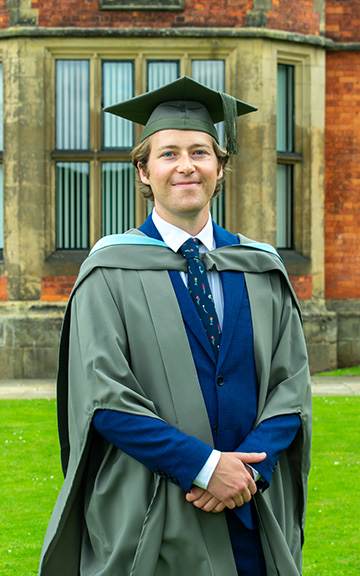
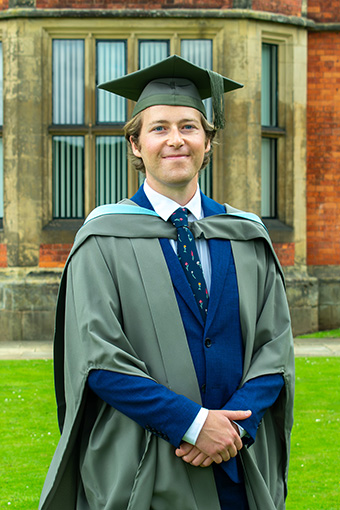
Made mobile look better, though still room to improve

diff --git a/src/ui/pages/Home/Home.scss b/src/ui/pages/Home/Home.scss
@@ -1,19 +1,14 @@
 #home {
   padding: 2em;
-  h2, h3, h4 {
+  h2,
+  h3,
+  h4 {
     margin: 0;
     padding: 0;
   }
 }
 
-.main-content {
-  height: 100%;
-  display: flex;
-  flex-direction: column;
-  justify-content: center;
-}
 #home-main-content {
-  padding: 1em 2em;
   height: 100%;
   display: flex;
   justify-content: space-between;
@@ -21,15 +16,15 @@
   > div {
     padding: 1em;
     &.left-side {
-      margin: 2em 0;
+      max-width: 30%;
+      height: min-content;
       clip-path: polygon(0 0, calc(100% - 6em) 0, 100% 6em, 100% 100%, 6em 100%, 0 calc(100% - 6em));
       transition: all 0.3s ease-in-out;
       img {
-        height: 100%;
+        width: 100%;
         vertical-align: top;
 
         background-image: url('me-low.jpg');
-
       }
 
       &:hover {
@@ -44,9 +39,14 @@
       font-weight: 700;
 
       h1 {
+        text-align: right;
         display: inline-block;
         font-size: 4.5em;
-        margin: 0 0 0 0.45em;
+        width: 100%;
+        > span {
+          margin: 0 0 0 0.45em;
+        }
+        margin: 0;
       }
 
       p {
@@ -83,14 +83,51 @@
   }
 }
 
+[data-device='tiny'],
+[data-device='small'] {
+  #home-main-content {
+    justify-content: end;
+    > div {
+      &.left-side {
+        display: none;
+      }
+    }
+  }
+}
+
+[data-device='tiny'] {
+  #home-main-content {
+    > div {
+      &.right-side {
+        h1 {
+          font-size: 3em;
+        }
+
+        p {
+          font-size: 1.5em;
+        }
+
+        #development-carousel {
+          height: 1.5em;
+        }
+      }
+    }
+  }
+}
+
 @keyframes development-carousel {
-  0%, 16%, 99.001%, 100% {
+  0%,
+  16%,
+  99.001%,
+  100% {
     transform: translateY(0);
   }
-  32%, 50% {
+  32%,
+  50% {
     transform: translateY(-100%);
   }
-  66%, 83% {
+  66%,
+  83% {
     transform: translateY(-200%);
   }
   99% {

diff --git a/src/ui/pages/Now/Now.tsx b/src/ui/pages/Now/Now.tsx
@@ -1,5 +1,6 @@
 import './Now.scss'
 import grad from './grad.jpg'
+import '@fontsource/noto-sans-mono/700.css'
 
 export const Now = () => (
   <div id='now'>
@@ -14,21 +15,26 @@ export const NowMainContent = () => {
       <div className='left-side'>
         <h1><a href='https://nownownow.com'>/now</a></h1>
 
-        <h3><i>Updated Sunday 6th August 2023</i></h3>
+        <h2><i>Updated 6th August 2023</i></h2>
 
+        <h4>/life</h4>
         <ul>
-          <li>I graduated from the University of York.</li>
-          <li>I am applying for many jobs.</li>
-          <li>Though I have also applied for a master's...</li>
-          <li>Web development has destroyed my sleep schedule.</li>
-          <br />
-          <li>I'm going to the BBC Proms later this month!</li>
-          <li>
-            I finally opened Overwatch 2 for the first time ever and I miss playing with my university team &lt;3
-          </li>
-          <br />
-          <li>I recently read Dracula, and I'm about 10% through The Time Traveller's Guide to Medieval England. Dracula is a must-read if you haven't read it!</li>
+          <li><i>I graduated from the University of York</i></li>
+          <li><i>I am applying for many jobs</i></li>
+          <li><i>Though I have also applied for a master's...</i></li>
+        </ul>
 
+        <h4>/misc</h4>
+        <ul>
+          <li><i>I've been getting back into Overwatch</i></li>
+          <li><i>I'm going to the BBC Proms soon!</i></li>
+        </ul>
+
+        <h4>/books</h4>
+        <ul>
+          <li><i>The Time Traveller's Guide to Medieval England</i></li>
+          <li><i>The Old Man and The Sea</i></li>
+          <li><i>Dracula</i></li>
         </ul>
       </div>
 

diff --git a/src/ui/pages/Now/Now.scss b/src/ui/pages/Now/Now.scss
@@ -1,18 +1,20 @@
 #now {
   padding: 2em;
-  h2, h4 {
+  h2,
+  h4 {
     margin: 0;
     padding: 0;
   }
 }
 
 #now-main-content {
-  padding: 1em 2em;
   height: 100%;
   display: flex;
   justify-content: space-between;
 
   h1 {
+    font-size: 4.5em;
+    font-family: 'Noto Sans Mono', monospace;
     a {
       color: inherit;
       text-decoration: none;
@@ -23,26 +25,42 @@
     }
   }
 
+  h1,
+  h2,
+  ul {
+    margin: 0;
+    padding: 0;
+  }
+
+  h2 {
+    font-size: 1.25em;
+  }
+
+  h4 {
+    margin: 0;
+    padding: 0.5em 0 0 0;
+    font-size: 1.1em;
+  }
+
   > div {
     padding: 1em;
     &.left-side {
       ul {
         list-style: none;
-        margin: 0;
-        padding: 0;
+        padding-left: 0.5em;
       }
     }
 
     &.right-side {
-      margin: 2em 0;
+      max-width: 30%;
+      height: min-content;
       clip-path: polygon(0 0, calc(100% - 6em) 0, 100% 6em, 100% 100%, 6em 100%, 0 calc(100% - 6em));
       transition: all 0.3s ease-in-out;
       img {
-        height: 100%;
+        width: 100%;
         vertical-align: top;
 
         background-image: url('grad-low.jpg');
-
       }
 
       &:hover {
@@ -51,5 +69,30 @@
       }
     }
   }
+}
 
+[data-device='tiny'] {
+  #now-main-content {
+    > div {
+      &.left-side {
+        h1 {
+          font-size: 3em;
+        }
+      }
+
+      &.right-side {
+        display: none;
+      }
+    }
+  }
+}
+
+[data-device='small'] {
+  #now-main-content {
+    > div {
+      &.right-side {
+        display: none;
+      }
+    }
+  }
 }

diff --git a/src/ui/components/maincontentwrapper/MainContentWrapper.tsx b/src/ui/components/maincontentwrapper/MainContentWrapper.tsx
@@ -5,17 +5,25 @@ import './MainContentWrapper.scss';
 export const MainContentWrapper = () => {
   return (
     <div id='main-content-wrapper'>
-      <div className='main-content' data-page='/'>
+      <MainContentPrefab page='/'>
         <HomeMainContent />
-      </div>
+      </MainContentPrefab>
 
-      <div className='main-content' data-page='/now'>
+      <MainContentPrefab page='/now'>
         <NowMainContent />
-      </div>
+      </MainContentPrefab>
 
-      <div className='main-content' data-page='/gallery'>
+      <MainContentPrefab page='/gallery'>
 
-      </div>
+      </MainContentPrefab>
+    </div>
+  );
+}
+
+const MainContentPrefab = ({children, page}: {children: React.ReactNode, page: string}) => {
+  return (
+    <div className='main-content' data-page={page}>
+      {children}
     </div>
   );
 }

diff --git a/src/ui/pages/Root/Root.tsx b/src/ui/pages/Root/Root.tsx
@@ -28,14 +28,19 @@ export const Root = () => {
 const NavLayout = () => {
   const {pathname} = useLocation();
   const prefersDarkMode = useMediaQuery('(prefers-color-scheme: dark)');
+  const isTiny = useMediaQuery('(max-width: 480px)');
+  const isSmall = useMediaQuery('(max-width: 600px)');
+
   const [theme, setTheme] = useLocalStorage<'dark' | 'light'>('theme', prefersDarkMode ? 'dark' : 'light');
 
   const toggleTheme = () => {
     setTheme(theme === 'dark' ? 'light' : 'dark');
   }
 
+  const device = isTiny ? 'tiny' : isSmall ? 'small' : '';
+
   return (
-    <div id='page-with-navbar' data-page={pathname} data-theme={theme}>
+    <div id='page-with-navbar' data-page={pathname} data-theme={theme} data-device={device}>
       <Navbar onToggleTheme={toggleTheme} />
       <Outlet />
     </div>

diff --git a/src/ui/pages/Home/Home.tsx b/src/ui/pages/Home/Home.tsx
@@ -18,7 +18,7 @@ export const HomeMainContent = () => {
       </div>
 
       <div className='right-side'>
-        <h1>Vic</h1><h1>Trodd</h1>
+        <h1><span>Vic</span><span>Trodd</span></h1>
         <div id='development-carousel'>
           <div id='carousel'>
             <p>Software</p>

diff --git a/src/ui/components/maincontentwrapper/MainContentWrapper.scss b/src/ui/components/maincontentwrapper/MainContentWrapper.scss
@@ -7,10 +7,14 @@
 
   .main-content {
     width: 100%;
-    height: 50vh;
     left: 0;
     top: 0;
     position: relative;
+
+    > * {
+      margin: 0 auto;
+      max-width: 1000px;
+    }
 
     &::after {
       position: absolute;

diff --git a/src/ui/components/navbar/Navbar.scss b/src/ui/components/navbar/Navbar.scss
@@ -3,7 +3,6 @@
   color: var(--background);
   padding: 0;
   overflow: hidden;
-  height: calc(50vh + 5em);
 
   > header {
     position: fixed;
